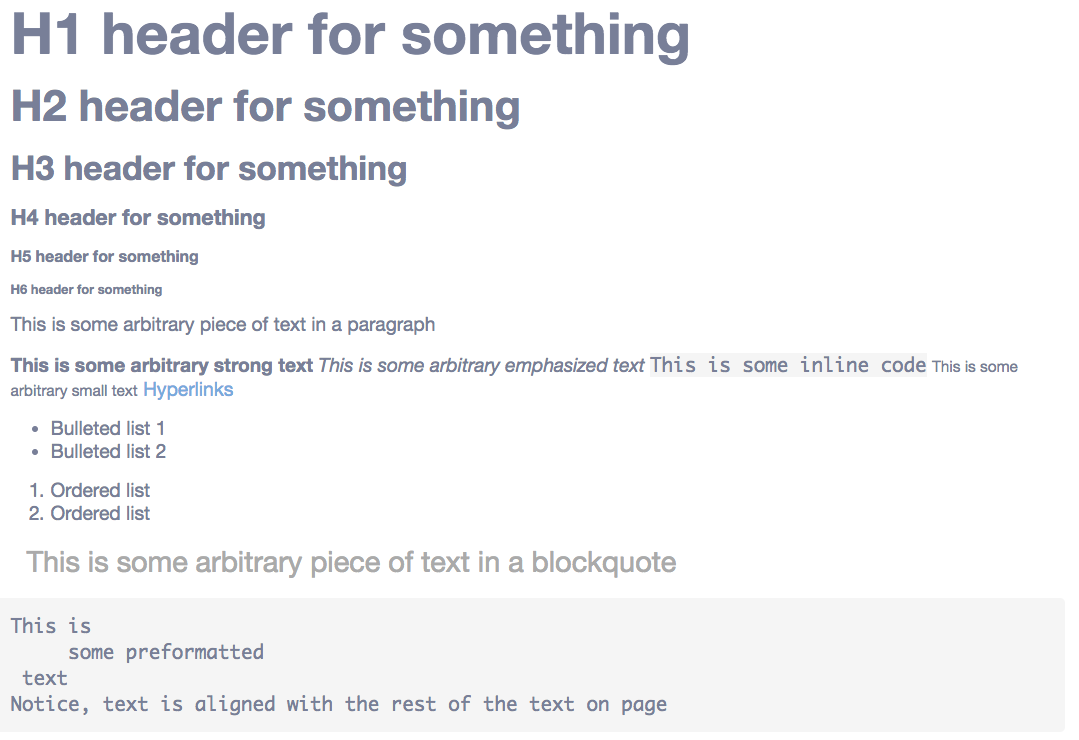
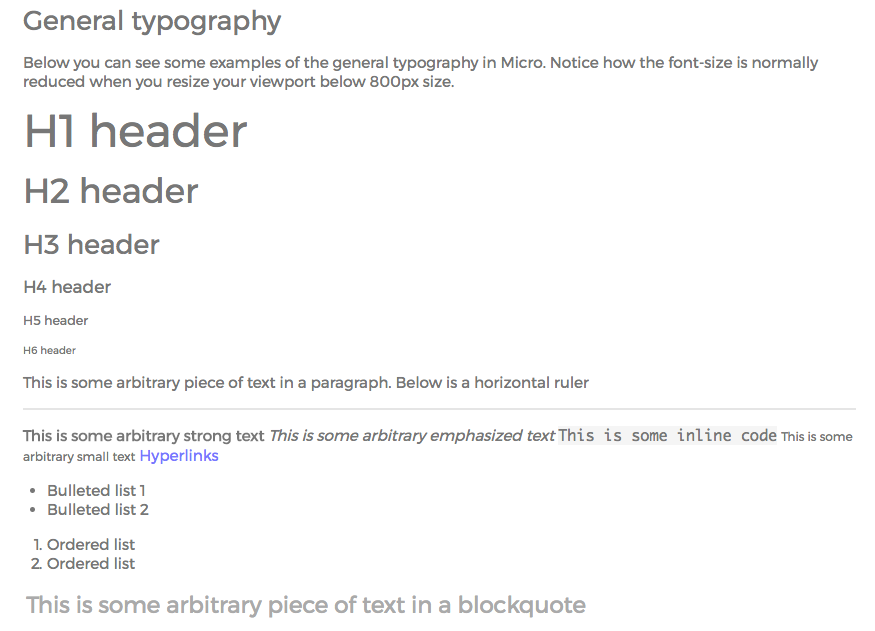
Started on datagrid
And fixed a few bugs

Changed region(s): [[0.0, 0.271, 0.9566, 0.9937], [0.0, 0.0, 0.9566, 0.271]]

diff --git a/media/main.css b/media/main.css
@@ -1,3 +1,3 @@
 /*! normalize.css v3.0.3 | MIT License | github.com/necolas/normalize.css */
 /*! Micro.css v3.1 | GPL/Proprietary License | copyright Thomas Hansen thomas@gaiasoul.com */
-*,body{margin:0}img,legend{border:0}*,legend,td,th{padding:0}a:active,a:hover,button{outline:0}.left,table th{text-align:left}html{font-family:sans-serif;-ms-text-size-adjust:100%;-webkit-text-size-adjust:100%;box-sizing:border-box;--txt-col:#787f98;--placeholder-col:#d0d0d0;--wid-dark-col:#77aadd;--wid-darker-col:#5588bb;--wid-border-col:#aaccff;--wid-light-col:#fcfcfc;--wid-lighter-col:#ffffff;--wid-txt-col:#fefefe;--form-txt-col:#787f98;--border-radius:5px}article,aside,details,figcaption,figure,footer,header,hgroup,main,menu,nav,section,summary{display:block}audio,canvas,progress,video{display:inline-block;vertical-align:baseline}audio:not([controls]){display:none;height:0}[hidden],template{display:none}a{background-color:transparent;text-decoration:none;color:var(--wid-dark-col)}abbr[title]{border-bottom:1px dotted}b,optgroup,strong{font-weight:700}dfn{font-style:italic}mark{background:#ff0;color:#000}small{font-size:80%}sub,sup{font-size:75%;line-height:0;position:relative;vertical-align:baseline}sup{top:-.5em}sub{bottom:-.25em}svg:not(:root){overflow:hidden}figure{margin:1em 40px}pre,textarea{overflow:auto}code,kbd,pre,samp{font-family:monospace,monospace;font-size:1em}button,input,optgroup,select,textarea{color:inherit;font:inherit;margin:0}blockquote,h1{line-height:1.25}button,select{text-transform:none}button,html input[type=button],input[type=reset],input[type=submit]{-webkit-appearance:button;cursor:pointer}button[disabled],html input[disabled]{cursor:default}button::-moz-focus-inner,input::-moz-focus-inner{border:0;padding:0}input{line-height:normal}input[type=checkbox],input[type=radio]{box-sizing:border-box;padding:0}input[type=number]::-webkit-inner-spin-button,input[type=number]::-webkit-outer-spin-button{height:auto}input[type=search]{-webkit-appearance:textfield;box-sizing:content-box}input[type=search]::-webkit-search-cancel-button,input[type=search]::-webkit-search-decoration{-webkit-appearance:none}fieldset{border:1px solid silver;padding:.35em .625em .75em}button,pre{border-radius:var(--border-radius)}*,:after,:before{box-sizing:inherit}.container,.container-fullscreen{padding:1rem 0 0 1rem;overflow:visible;position:relative}.container{margin:0 auto;max-width:1120px}.container-fullscreen{width:100%}.row{display:flex;flex-wrap:wrap;margin-right:1rem}.row .row{margin-right:0}blockquote,button,caption,fieldset,h1,h2,h3,h4,h5,h6,hr,input,label,legend,ol,option,p,pre,select,td,textarea,th,ul{margin:0 0 1rem}.col,.col-10,.col-100,.col-20,.col-25,.col-30,.col-33,.col-40,.col-50,.col-60,.col-67,.col-70,.col-75,.col-80,.col-90{flex:100%}body{font-size:1.2rem;font-size-adjust:.5;padding-bottom:150px;font-family:'Helvetica Neue',Helvetica,Arial,sans-serif;color:var(--txt-col)}h1{font-size:2em}h2{font-size:1.625em;line-height:1.15384615}h3{font-size:1.375em;line-height:1.13636364}h4{font-size:1.125em;line-height:1.11111111}blockquote{font-size:1.25em;color:#aaa;margin-left:1rem}label{display:block;float:left;user-select:none;font-weight:700}pre{background:#f5f5f5;padding:1rem}code{background:#f5f5f5}code,pre{font-family:Consolas,Monaco,monospace}a:active,a:focus,a:hover{color:var(--wid-darker-col)}ol,ul{margin-left:2.5rem}hr{box-sizing:content-box;height:0;border-color:rgba(0,0,0,.1)}::-webkit-input-placeholder{color:var(--placeholder-col)}::-moz-placeholder{color:var(--placeholder-col)}::-ms-input-placeholder{color:var(--placeholder-col)}.strip label,button,input,select,strip span{height:42px;color:var(--form-txt-col);font-weight:400}button{overflow:visible;border:1px solid var(--wid-border-col);background:var(--wid-dark-col);color:var(--wid-txt-col);padding:7px 15px}button:active,button:focus,button:hover{background:var(--wid-darker-col)}input,select,textarea{border-radius:var(--border-radius);width:250px;border:1px solid var(--wid-border-col);padding:7px 25px;outline:0;background:var(--wid-light-col);color:var(--form-txt-col)}input:active,input:focus,input:hover,input[type=checkbox]:active,input[type=checkbox]:checked:active,input[type=checkbox]:checked:focus,input[type=checkbox]:checked:hover,input[type=checkbox]:focus,input[type=checkbox]:hover,input[type=radio]:active,input[type=radio]:checked:active,input[type=radio]:checked:focus,input[type=radio]:checked:hover,input[type=radio]:hover,select:active,select:focus,select:hover,textarea:active,textarea:focus,textarea:hover{background:var(--wid-lighter-col)}input[type=checkbox],input[type=radio],select{-webkit-appearance:none;-moz-appearance:none;appearance:none}input[type=checkbox],input[type=radio]{display:block;position:relative;float:left;height:24px;width:24px;margin:0 15px}input[type=checkbox]:first-child,input[type=radio]:first-child{margin-left:0}input[type=checkbox]:checked:after,input[type=radio]:checked:after{position:absolute;left:3px;top:0;color:var(--form-txt-col);display:block;font-size:20px}input[type=checkbox]:checked:after{content:'\2714'}input[type=radio]:checked:after{content:' ';width:16px;height:16px;border-radius:15px;background:var(--form-txt-col);margin:3px 0}input[type=radio]{border-radius:15px}.strip{overflow:auto}.strip button,.strip input,.strip select{border-radius:0;border-left-style:none;float:left}.strip label,.strip span{border-radius:0;border:1px solid var(--wid-border-col);border-left-style:none;background:var(--wid-dark-col);color:var(--wid-light-col);padding:8px 15px;margin-bottom:1rem;float:left}.strip :first-child{border-radius:var(--border-radius)0 0 var(--border-radius);border-left-width:1px;border-left-style:solid}.strip :last-child{border-radius:0 var(--border-radius)var(--border-radius)0;border-left-style:none;float:left;margin-right:5px}.strip span input[type=checkbox],.strip span input[type=radio]{margin:0;border-left-style:solid;border-radius:var(--border-radius)}.strip span input[type=radio]{border-radius:15px}.emphasized,.rounded,.success,.warning{border-radius:var(--border-radius)}.wider{width:270px}.smaller{width:120px}.fill{display:table-cell;width:100%}div.fill{display:flex}div.fill>label{white-space:nowrap}div.fill>input[type=text],div.fill>select{margin-right:0;width:100%}table{border-collapse:collapse;border-spacing:0;width:100%}table td,table th{padding:.5rem 1rem}table th{background:var(--wid-lighter-col)}table tbody tr td{border-top:solid 1px var(--wid-border-col)}@media screen and (min-width:800px){h2,h3{line-height:1.25}.container,.container-fullscreen{padding:2rem 0 0 2rem}.row{margin-right:2rem}.col,.col-10,.col-20,.col-25,.col-30,.col-33,.col-40,.col-50,.col-60,.col-67,.col-70,.col-75,.col-80,.col-90{padding:0 1rem 0 0}.col-100:last-child,.col-10:last-child,.col-20:last-child,.col-25:last-child,.col-30:last-child,.col-33:last-child,.col-40:last-child,.col-50:last-child,.col-60:last-child,.col-67:last-child,.col-70:last-child,.col-75:last-child,.col-80:last-child,.col-90:last-child,.col:last-child{padding:0}.col{flex:1}.col-10{flex:10%;max-width:10%}.col-20{flex:20%;max-width:20%}.col-25{flex:25%;max-width:25%}.col-30{flex:30%;max-width:30%}.col-33{flex:33%;max-width:33%}.col-40{flex:40%;max-width:40%}.col-50{flex:50%;max-width:50%}.col-60{flex:60%;max-width:60%}.col-67{flex:67%;max-width:67%}.col-70{flex:70%;max-width:70%}.col-75{flex:75%;max-width:75%}.col-80{flex:80%;max-width:80%}.col-90{flex:90%;max-width:90%}.col-100{flex:100%;max-width:100%}.offset-10{margin-left:10%}.offset-20{margin-left:20%}.offset-25{margin-left:25%}.offset-30{margin-left:30%}.offset-33{margin-left:33%}.offset-40{margin-left:40%}.offset-50{margin-left:50%}.offset-60{margin-left:60%}.offset-67{margin-left:67%}.offset-70{margin-left:70%}.offset-75{margin-left:75%}.offset-80{margin-left:80%}.offset-90{margin-left:90%}h1{font-size:3em;line-height:1.05}h2{font-size:2.25em}h3{font-size:1.75em}h4{line-height:1.22222222}blockquote{font-size:1.5em;line-height:1.45833333}input,select,textarea{width:350px}.wider{width:550px}.smaller{width:200px}button{padding:7px 25px}}.air{margin:1rem}.air-top{margin-top:1rem}.air-bottom{margin-bottom:1rem}.air-inner{padding:1rem!important}.air-inner :last-child{margin-bottom:0}.emphasized,.rounded,.shaded,.success,.warning{margin-bottom:1rem}.success{background:#cfc}.warning{background:#fcc}.emphasized{background:#fafafe}.bg{background:#fafafa}.center{text-align:center}.right{text-align:right}.shaded{box-shadow:2px 2px 5px rgba(0,0,0,.2)}
+hr,input[type=search]{box-sizing:content-box}*,body{margin:0}img,legend{border:0}*,legend,td,th{padding:0}a:active,a:hover,button{outline:0}.left,table th{text-align:left}html{font-family:sans-serif;-ms-text-size-adjust:100%;-webkit-text-size-adjust:100%;box-sizing:border-box;--txt-col:#787f98;--placeholder-col:#d0d0d0;--wid-dark-col:#77aadd;--wid-darker-col:#5588bb;--wid-border-col:#aaccff;--wid-light-col:#fcfcfc;--wid-lighter-col:#ffffff;--wid-txt-col:#fefefe;--form-txt-col:#787f98;--border-radius:5px}article,aside,details,figcaption,figure,footer,header,hgroup,main,menu,nav,section,summary{display:block}audio,canvas,progress,video{display:inline-block;vertical-align:baseline}audio:not([controls]){display:none;height:0}[hidden],template{display:none}a{background-color:transparent;text-decoration:none;color:var(--wid-dark-col)}abbr[title]{border-bottom:1px dotted}b,optgroup,strong{font-weight:700}dfn{font-style:italic}mark{background:#ff0;color:#000}small{font-size:80%}sub,sup{font-size:75%;line-height:0;position:relative;vertical-align:baseline}sup{top:-.5em}sub{bottom:-.25em}svg:not(:root){overflow:hidden}figure{margin:1em 40px}pre,textarea{overflow:auto}.strip,button{overflow:visible}code,kbd,pre,samp{font-family:monospace,monospace;font-size:1em}button,input,optgroup,select,textarea{color:inherit;font:inherit;margin:0}blockquote,h1{line-height:1.25}button,select{text-transform:none}button,html input[type=button],input[type=reset],input[type=submit]{-webkit-appearance:button;cursor:pointer}button[disabled],html input[disabled]{cursor:default}button::-moz-focus-inner,input::-moz-focus-inner{border:0;padding:0}input{line-height:normal}input[type=checkbox],input[type=radio]{box-sizing:border-box;padding:0}input[type=number]::-webkit-inner-spin-button,input[type=number]::-webkit-outer-spin-button{height:auto}input[type=search]{-webkit-appearance:textfield}input[type=search]::-webkit-search-cancel-button,input[type=search]::-webkit-search-decoration{-webkit-appearance:none}fieldset{border:1px solid silver;padding:.35em .625em .75em}button,pre{border-radius:var(--border-radius)}*,:after,:before{box-sizing:inherit}.container,.container-fullscreen{padding:1rem 0 0 1rem;overflow:visible;position:relative}.container{margin:0 auto;max-width:1120px}.container-fullscreen{width:100%}.row{display:flex;flex-wrap:wrap;margin-right:1rem}.row .row{margin-right:0}blockquote,button,caption,fieldset,h1,h2,h3,h4,h5,h6,hr,input,label,legend,ol,option,p,pre,select,td,textarea,th,ul{margin:0 0 1rem}.col,.col-10,.col-100,.col-20,.col-25,.col-30,.col-33,.col-40,.col-50,.col-60,.col-67,.col-70,.col-75,.col-80,.col-90{flex:100%}body{font-size:1.2rem;font-size-adjust:.5;padding-bottom:150px;font-family:'Helvetica Neue',Helvetica,Arial,sans-serif;color:var(--txt-col)}h1{font-size:2em}h2{font-size:1.625em;line-height:1.15384615}h3{font-size:1.375em;line-height:1.13636364}h4{font-size:1.125em;line-height:1.11111111}blockquote{font-size:1.25em;color:#aaa;margin-left:1rem}label{display:block;float:left;user-select:none;font-weight:700}pre{background:#f5f5f5;padding:1rem}code{background:#f5f5f5}code,pre{font-family:Consolas,Monaco,monospace}a:active,a:focus,a:hover{color:var(--wid-darker-col)}ol,ul{margin-left:2.5rem}hr{height:0;border-color:rgba(0,0,0,.1)}::-webkit-input-placeholder{color:var(--placeholder-col)}::-moz-placeholder{color:var(--placeholder-col)}::-ms-input-placeholder{color:var(--placeholder-col)}.strip label,button,input,select,strip span{height:42px;color:var(--form-txt-col);font-weight:400}button{border:1px solid var(--wid-border-col);background:var(--wid-dark-col);color:var(--wid-txt-col);padding:7px 15px}button:active,button:focus,button:hover{background:var(--wid-darker-col)}input,select,textarea{border-radius:var(--border-radius);width:250px;border:1px solid var(--wid-border-col);padding:7px 25px;outline:0;background:var(--wid-light-col);color:var(--form-txt-col)}input:active,input:focus,input:hover,input[type=checkbox]:active,input[type=checkbox]:checked:active,input[type=checkbox]:checked:focus,input[type=checkbox]:checked:hover,input[type=checkbox]:focus,input[type=checkbox]:hover,input[type=radio]:active,input[type=radio]:checked:active,input[type=radio]:checked:focus,input[type=radio]:checked:hover,input[type=radio]:hover,select:active,select:focus,select:hover,textarea:active,textarea:focus,textarea:hover{background:var(--wid-lighter-col)}input[type=checkbox],input[type=radio],select{-webkit-appearance:none;-moz-appearance:none;appearance:none}input[type=checkbox],input[type=radio]{display:block;position:relative;float:left;height:24px;width:24px;margin:0 15px}input[type=checkbox]:first-child,input[type=radio]:first-child{margin-left:0}input[type=checkbox]:checked:after,input[type=radio]:checked:after{position:absolute;left:3px;top:0;color:var(--form-txt-col);display:block;font-size:20px}input[type=checkbox]:checked:after{content:'\2714'}input[type=radio]:checked:after{content:' ';width:16px;height:16px;border-radius:15px;background:var(--form-txt-col);margin:3px 0}input[type=radio]{border-radius:15px}.strip button,.strip input,.strip select{border-radius:0;border-left-style:none;float:left}.strip label,.strip span{border-radius:0;border:1px solid var(--wid-border-col);border-left-style:none;background:var(--wid-dark-col);color:var(--wid-light-col);padding:8px 15px;margin-bottom:1rem;float:left}.strip :first-child{border-radius:var(--border-radius)0 0 var(--border-radius);border-left-width:1px;border-left-style:solid}.strip :last-child{border-radius:0 var(--border-radius)var(--border-radius)0;border-left-style:none;float:left;margin-right:5px}.strip span input[type=checkbox],.strip span input[type=radio]{margin:0;border-left-style:solid;border-radius:var(--border-radius)}.strip span input[type=radio]{border-radius:15px}.emphasized,.rounded,.success,.warning{border-radius:var(--border-radius)}.wider{width:270px}.smaller{width:120px}.fill{display:table-cell;width:100%}div.fill{display:flex}div.fill>label{white-space:nowrap}div.fill>input[type=text],div.fill>select{margin-right:0!important;width:100%}table{border-collapse:collapse;border-spacing:0;width:100%}table td,table th{padding:.5rem 1rem}table th{background:var(--wid-lighter-col)}table tbody tr td{border-top:solid 1px var(--wid-border-col)}@media screen and (min-width:800px){h2,h3{line-height:1.25}.container,.container-fullscreen{padding:2rem 0 0 2rem}.row{margin-right:2rem}.col,.col-10,.col-20,.col-25,.col-30,.col-33,.col-40,.col-50,.col-60,.col-67,.col-70,.col-75,.col-80,.col-90{padding:0 1rem 0 0}.col-100:last-child,.col-10:last-child,.col-20:last-child,.col-25:last-child,.col-30:last-child,.col-33:last-child,.col-40:last-child,.col-50:last-child,.col-60:last-child,.col-67:last-child,.col-70:last-child,.col-75:last-child,.col-80:last-child,.col-90:last-child,.col:last-child{padding:0}.col{flex:1}.col-10{flex:10%;max-width:10%}.col-20{flex:20%;max-width:20%}.col-25{flex:25%;max-width:25%}.col-30{flex:30%;max-width:30%}.col-33{flex:33%;max-width:33%}.col-40{flex:40%;max-width:40%}.col-50{flex:50%;max-width:50%}.col-60{flex:60%;max-width:60%}.col-67{flex:67%;max-width:67%}.col-70{flex:70%;max-width:70%}.col-75{flex:75%;max-width:75%}.col-80{flex:80%;max-width:80%}.col-90{flex:90%;max-width:90%}.col-100{flex:100%;max-width:100%}.offset-10{margin-left:10%}.offset-20{margin-left:20%}.offset-25{margin-left:25%}.offset-30{margin-left:30%}.offset-33{margin-left:33%}.offset-40{margin-left:40%}.offset-50{margin-left:50%}.offset-60{margin-left:60%}.offset-67{margin-left:67%}.offset-70{margin-left:70%}.offset-75{margin-left:75%}.offset-80{margin-left:80%}.offset-90{margin-left:90%}h1{font-size:3em;line-height:1.05}h2{font-size:2.25em}h3{font-size:1.75em}h4{line-height:1.22222222}blockquote{font-size:1.5em;line-height:1.45833333}input,select,textarea{width:350px}.wider{width:550px}.smaller{width:200px}button{padding:7px 25px}}.air{margin:1rem}.air-top{margin-top:1rem}.air-bottom{margin-bottom:1rem}.air-inner{padding:1rem!important}.air-inner :last-child{margin-bottom:0}.emphasized,.rounded,.shaded,.success,.warning{margin-bottom:1rem}.success{background:#cfc}.warning{background:#fcc}.emphasized{background:#fafafe}.bg{background:#fafafa}.center{text-align:center}.right{text-align:right}.shaded{box-shadow:2px 2px 5px rgba(0,0,0,.2)}.error .strip>label:first-child,.error input,.error select,.error textarea,input.error,select.error,textarea.error{box-shadow:0 0 3px rgba(255,0,0,1)!important}

diff --git a/README.md b/README.md
@@ -1,4 +1,4 @@
-# Micro
+# Micro CSS and Ajax
 
 Micro is a microscopic CSS and Ajax framework. It can be used stand alone as a pure CSS framework, but is 
 also a perfect companion with [Phosphorus Five](https://github.com/polterguy/phosphorusfive). 
@@ -33,11 +33,11 @@ way or the other.
 
 In general, Micro does as little as possible. However, most of your HTML elements, will have some sort of sane styling applied
 to them. This means that it becomes tiny, while at the same time, leaving the design parts of your page up to you.
-Below is a screenshot of what you may expect.
+Below is a screenshot of how the general typography looks like in Micro if you apply the Forrest Dew skin.
 
 ![alt screenshot](screenshots/screenshot-1.png)
 
-As you can see, there are no fancy fonts, and little layout in general unless you include a skin, since Micro only solves the bare minimum 
+If you don't apply a skin, there are no fancy fonts, and little layout in general unless you include a skin, since Micro only solves the bare minimum 
 expected from every page you create - Leaving the rest up to you to explicitly solve as you wish. This implies that it 
 doesn't _"end up as much in your way"_, as you apply your own custom design to your site or create a skin for it. This trait of Micro also 
 results in a _tiny_ bandwidth consumption.
@@ -181,6 +181,7 @@ element. Below is an example of creating a strip.
 
 ```
 p5.web.include-css-file:@MICRO/media/main.css
+p5.web.include-css-file:@MICRO/media/skins/sea-breeze.css
 set-widget-property:cnt
   class:container
 create-widget
@@ -209,6 +210,10 @@ The above will result in something resembling the following.
 
 ![alt screenshot](screenshots/screenshot-3.png)
 
+## Misc. classes
+
+Micro also contains some semantic helper classes, such as _'error'_, _'emphasize'_, _'warning'_, etc. For a complete list and examples of usage, please refer to the _'/Micro/sample'_ example page which is automatically created for you, if you install Micro together with [System42](https://github.com/polterguy/system42).
+
 ## Extension widgets
 
 Micro contains some extension widgets which are documented below. Most of these extension widgets, will automatically include
@@ -219,6 +224,8 @@ the relevant CSS file(s).
 A tiny modal widget, allowing you to easily create modal windows in your apps. Example usage can be found below.
 
 ```
+p5.web.include-css-file:@MICRO/media/main.css
+p5.web.include-css-file:@MICRO/media/skins/forrest-dew.css
 create-widgets
   micro.widgets.modal:modal-widget-1
     class:micro-modal
@@ -252,6 +259,8 @@ Below is a screenshot of how this will end up looking like.
 This is a tab control type of widget. An example of usage can be found below.
 
 ```
+p5.web.include-css-file:@MICRO/media/main.css
+p5.web.include-css-file:@MICRO/media/skins/forrest-dew.css
 create-widget
   class:container
   widgets
@@ -262,7 +271,7 @@ create-widget
           class:col-100
           widgets
             micro.widgets.tab
-              class:micro-tab
+              class:micro-tab micro-tab-border
               view
                 name:First
                 widgets
@@ -290,9 +299,7 @@ Your **[micro.widgets.tab]** widget needs a collection of one or more **[view]**
 needs at least a **[name]** and a **[widgets]** collection. The name becomes the name of your view, and also the text of the buttons
 that allows you to change the active view. The **[widgets]** collection, becomes the content of your views.
 
-All other arguments to your **[view]** becomes appended into the main container widget of your specific view.
-
-Below is a screenshot of how the above code will end up appearing on your site.
+All other arguments to your **[view]** becomes appended into the main container widget of your specific view. Below is a screenshot of how the above code will end up appearing on your site.
 
 ![alt screenshot](screenshots/screenshot-6.png)
 
@@ -313,6 +320,8 @@ The name of your child node beneath your **[items]** collection, becomes the fri
 explicit ID for the actual anchor element of your menu. Below is an example of creating a menu.
 
 ```
+p5.web.include-css-file:@MICRO/media/main.css
+p5.web.include-css-file:@MICRO/media/skins/forrest-dew.css
 create-widget:content-menu
   class:container-fullscreen
   events
@@ -377,10 +386,7 @@ This can signifintly reduce your amount of repetition, keeps your code very 'DRY
 when creating 'forms'. Below is an example of using it in combination with the 'Sea Breeze' skin.
 
 ```
-
-
 p5.web.include-css-file:@MICRO/media/main.css
-p5.web.include-css-file:@MICRO/media/ext.css
 p5.web.include-css-file:@MICRO/media/skins/sea-breeze.css
 set-widget-property:cnt
   class:container
@@ -390,7 +396,7 @@ create-widget
     container
       class:col
       widgets
-      
+
         /*
          * Creates our actual 'wizard form' widget.
          */
@@ -431,8 +437,7 @@ create-widget
                    * Serializing the 'form' and displays results 
                    * in a modal widget.
                    */
-                  micro.form.serialize:my-form
-                  lambda2hyper:x:/-/*
+                  micro.widgets.wizard-form.value:my-form
                   eval-x:x:/+/**/pre/*/innerValue
                   create-widgets
                     micro.widgets.modal
@@ -441,11 +446,10 @@ create-widget
                         h3
                           innerValue:Result
                         pre
-                          innerValue:x:/@lambda2hyper?value
-
+                          innerValue:x:/@micro.widgets.wizard-form.value
 ```
 
-The above code uses the **[micro.form.serialize]** Active Event to serialize the form's values, and displays them in a modal window 
+The above code uses the **[micro.widgets.wizard-form.value]** Active Event to serialize the form's values, and displays them in a modal window 
 when you click the OK button. Make sure you create a System42 CMS page, and set the _"template"_ to _"empty"_ if you'd like to test the
 above code. The above code will resemble the following screenshot.
 
@@ -471,9 +475,11 @@ both a label having the info value, and an input element. For the checkbox, it w
 create a placeholder value. If you want to have a label for your textareas, you'll need to explicitly add it yourself, as we demonstrate 
 in the above code.
 
-Notice, the above declaration of our wizard form is 49 lines of code if we ignore the boiler plate code. If we had created a form of that 
+Notice, the above declaration of our wizard form is 48 lines of code if we ignore the boiler plate code. If we had created a form of that 
 complexity 'by hand', it would surely easily become at least 150-200 lines of code (LOC). The **[micro.widgets.wizard-form]** extension widget, 
 allows you to easily create very rich forms, without having to repeat yourself, with a very small number of LOC (lines of code).
+
+To retrieve the value of your form, you can use the __[micro.widgets.wizard-form.value]__ lambda event, passing in the ID of your form.
 
 #### [radio-group] and [select] widgets creation
 
@@ -529,9 +535,7 @@ retrieve the form element's value with some semantically easily understood name.
 this construct.
 
 ```
-
 p5.web.include-css-file:@MICRO/media/main.css
-p5.web.include-css-file:@MICRO/media/ext.css
 p5.web.include-css-file:@MICRO/media/skins/sea-breeze.css
 set-widget-property:cnt
   class:container
@@ -582,7 +586,6 @@ create-widget
                    * in a modal widget.
                    */
                   micro.form.serialize:my-form
-                  lambda2hyper:x:/-/*
                   eval-x:x:/+/**/pre/*/innerValue
                   create-widgets
                     micro.widgets.modal
@@ -591,7 +594,7 @@ create-widget
                         h3
                           innerValue:Result
                         pre
-                          innerValue:x:/@lambda2hyper?value
+                          innerValue:x:/@micro.form.serialize
 ```
 
 Notice how we have completely dropped our IDs in the above code - Still when we invoke our **[micro.form.serialize]** event, we get semantically
@@ -609,6 +612,8 @@ radio group.
 This small inconvenience and added complexity for **[radio-group]** widgets, is unfortunately something dictated by the HTML standard, and not
 possible to solve generically in P5.
 
+In fact, the __[micro.widgets.wizard-form.value]__ lambda event for the wizard form, is just a thin layer on top of the __[micro.form.serialize]__ Active Event.
+
 ## Performance
 
 Micro is truly **microscopic**! Among other things, the total bandwidth usage for the kitchen sink example for its extension widgets
@@ -616,18 +621,15 @@ ticks in at roughly **30KB**. This includes all CSS and JavaScript on your page,
 total. The number of HTTP requests is 4. Compare this to most other Ajax control vendors, who often have several megabytes of bandwidth in their 
 initial rendering, and often hundreds of HTTP requests.
 
-In general, Micro is at least 2 orders of magnitudes smaller in bandwidth consumption than literally anything else out there!
-
-To verify this for yourself, create a new lambda page in System42, set its "template" settings to "empty", and paste in the following code, 
-which will show you the "kitchen sink" example.
+In general, Micro is at least 2 orders of magnitudes smaller in bandwidth consumption than literally anything else out there. To verify this for yourself, create a new lambda page in System42, set its "template" settings to "empty", and paste in the following code, 
+which will show you the kitchen sink example for extension widgets.
 
 ```
 sys42.utilities.execute-lambda-file:@MICRO/samples/ext.hl
 ```
 
 In the above page, we have multiple modal widgets, multiple tab widgets, and a fairly complex menu. Still it ticks in at ~30KB. Simply displaying 
-the Ajax menu example for most other Ajax libraries, will often download megabytes of JavaScript, HTML, and CSS. And even if you add a skin to Micro,
-using the 'select skin' widget, the page still ticks in at less than 80KB in total.
+the Ajax menu example for most other Ajax libraries, will often download megabytes of JavaScript, HTML, and CSS. And even if you add a skin to Micro, using the 'select skin' widget, the page still ticks in at less than 80KB in total.
 
 To see a video demonstrating some of its features, and the bandwidth consumption differences, you can 
 check out [this YouTube video](https://www.youtube.com/watch?v=amVnm5uHB1sg).
